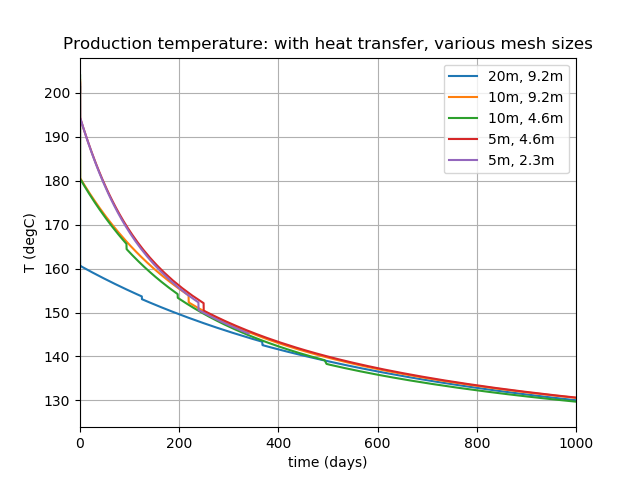
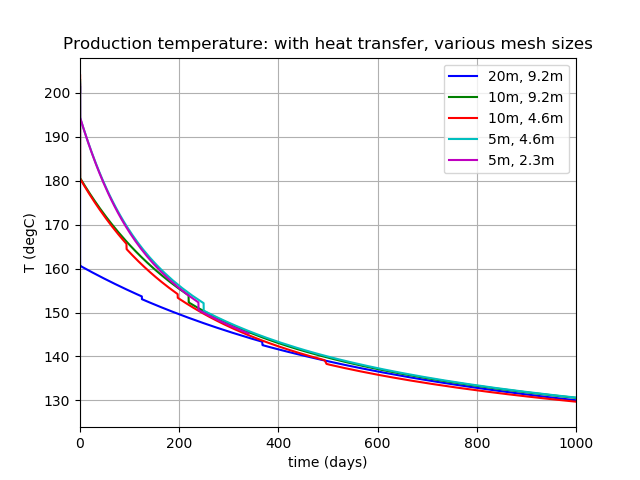
PorousFlow_3D just has extensions stuff left to doco

diff --git a/3dFracture/matrix_app.py b/3dFracture/matrix_app.py
@@ -3,18 +3,38 @@ import sys
 import numpy as np
 import matplotlib.pyplot as plt
 
+production_starts = {} # index into data at which production starts (P_out >= 10.6)
+for i in ['00', '10', '11', '21', '22']:
+    data = np.genfromtxt(r'matrix_app_out_fracture_app0_' + i + '.csv', delimiter=',', names=True)
+    for ind in range(1, len(data)):
+        if data['P_out'][ind] >= 10.6:
+            production_starts[i] = ind
+            break
+
+labels = {'00': '20m, 9.2m', '10': '10m, 9.2m', '11': '10m, 4.6m', '21': '5m, 4.6m', '22': '5m, 2.3m'}
+colours = {'00': 'b', '10': 'g', '11': 'r', '21': 'c', '22': 'm'}
 
 plt.figure()
-data = np.genfromtxt(r'matrix_app_out_fracture_app0_00.csv', delimiter=',', names=True)
-plt.plot(data['time'][1:] / 3600.0 / 24.0, data['TK_out'][1:] - 273, label='20m, 9.2m')
-data = np.genfromtxt(r'matrix_app_out_fracture_app0_10.csv', delimiter=',', names=True)
-plt.plot(data['time'][1:] / 3600.0 / 24.0, data['TK_out'][1:] - 273, label='10m, 9.2m')
-data = np.genfromtxt(r'matrix_app_out_fracture_app0_11.csv', delimiter=',', names=True)
-plt.plot(data['time'][1:] / 3600.0 / 24.0, data['TK_out'][1:] - 273, label='10m, 4.6m')
-data = np.genfromtxt(r'matrix_app_out_fracture_app0_21.csv', delimiter=',', names=True)
-plt.plot(data['time'][1:] / 3600.0 / 24.0, data['TK_out'][1:] - 273, label='5m, 4.6m')
-data = np.genfromtxt(r'matrix_app_out_fracture_app0_22.csv', delimiter=',', names=True)
-plt.plot(data['time'][1:] / 3600.0 / 24.0, data['TK_out'][1:] - 273, label='5m, 2.3m')
+for i in ['00', '10', '11', '21', '22']:
+    data = np.genfromtxt(r'matrix_app_out_fracture_app0_' + i + '.csv', delimiter=',', names=True)
+    plt.plot(data['time'][1:production_starts[i]+1] / 3600.0, data['TK_out'][1:production_starts[i]+1] - 273, colours[i] + ":")
+    plt.plot(data['time'][production_starts[i]] / 3600.0, data['TK_out'][production_starts[i]] - 273, colours[i] + "o")
+    plt.plot(data['time'][production_starts[i]:] / 3600.0, data['TK_out'][production_starts[i]:] - 273, colours[i], label=labels[i])
+plt.grid()
+plt.legend()
+plt.title("Production temperature: with heat transfer, various mesh sizes")
+plt.xlim([0, 4])
+plt.ylim([160, 210])
+plt.xlabel("time (hours)")
+plt.ylabel("T (degC)")
+plt.savefig("../doc/content/media/matrix_app_T_short.png")
+plt.show()
+plt.close()
+
+plt.figure()
+for i in ['00', '10', '11', '21', '22']:
+    data = np.genfromtxt(r'matrix_app_out_fracture_app0_' + i + '.csv', delimiter=',', names=True)
+    plt.plot(data['time'][1:] / 3600.0 / 24.0, data['TK_out'][1:] - 273, colours[i], label=labels[i])
 plt.grid()
 plt.legend()
 plt.title("Production temperature: with heat transfer, various mesh sizes")

diff --git a/3dFracture/fracture_only_aperture_changing.py b/3dFracture/fracture_only_aperture_changing.py
@@ -1,6 +1,7 @@
 import os
 import sys
 import numpy as np
+from sklearn.linear_model import LinearRegression
 import matplotlib.pyplot as plt
 
 labels = {'0': '9.2m', '1': '4.6m', '2': '2.3m', '3': '1.15m'}
@@ -14,12 +15,21 @@ for i in ['0', '1', '2', '3']:
             production_starts[i] = ind
             break
 
+at_2hrs = {}
 plt.figure()
 for i in ['0', '1', '2', '3']:
     data = np.genfromtxt(r'fracture_only_aperture_changing_out_' + i + '.csv', delimiter=',', names=True)
     plt.plot(data['time'][1:production_starts[i]+1] / 3600.0, data['TK_out'][1:production_starts[i]+1] - 273, colours[i] + ":")
     plt.plot(data['time'][production_starts[i]] / 3600.0, data['TK_out'][production_starts[i]] - 273, colours[i] + "o")
     plt.plot(data['time'][production_starts[i]:] / 3600.0, data['TK_out'][production_starts[i]:] - 273, colours[i], label=labels[i])
+    for ind in range(len(data)):
+        if data['time'][ind] / 3600.0 > 2.0:
+            t0 = data['time'][ind - 1] / 3600.0
+            t1 = data['time'][ind] / 3600.0
+            T0 = data['TK_out'][ind - 1] - 273
+            T1 = data['TK_out'][ind] - 273
+            at_2hrs[i] = (T0 * (t1 - 2.0) + T1 * (t0 - 2.0)) / (t1 - t0)
+            break
 plt.grid()
 plt.legend()
 plt.title("Production-point temperature: no heat transfer, various mesh sizes")
@@ -27,6 +37,24 @@ plt.xlim([0, 4])
 plt.xlabel("time (hours)")
 plt.ylabel("T (degC)")
 plt.savefig("../doc/content/media/fracture_only_aperture_changing_T_out.png")
+plt.show()
+plt.close()
+
+plt.figure()
+xvals = np.array([9.2, 4.6, 2.3, 1.15]).reshape((-1, 1))
+yvals = np.array([at_2hrs['0'], at_2hrs['1'], at_2hrs['2'], at_2hrs['3']])
+plt.plot(xvals, yvals, 'o', label="Simulation")
+ord = 0.15
+reg = LinearRegression().fit(np.power(xvals, ord), yvals)
+x2 = np.arange(1, np.power(10, ord), 0.01).reshape((-1, 1))
+print(reg.intercept_, reg.coef_)
+plt.plot(np.power(x2, 1.0 / ord), reg.predict(x2), label="Fit: error = size^0.15")
+plt.grid()
+plt.legend()
+plt.xlabel("Element size (m)")
+plt.ylabel("T (degC)")
+plt.title("Production temperature after 2 hours")
+plt.savefig("../doc/content/media/fracture_only_aperture_changing_T_2hrs.png")
 plt.show()
 plt.close()
 

diff --git a/doc/content/multiapp_fracture_flow_PorousFlow_3D.md b/doc/content/multiapp_fracture_flow_PorousFlow_3D.md
@@ -147,7 +147,7 @@ As mentioned above `bottom_p_or_t` is chosen so that the borehole don't "suck" w
 
 The pressure at the injection point rises from its insitu value of around 9.4$\,$MPa to around 12.2$\,$MPa: an increase of 3$\,$MPa, which results in a fracture aperture of around 3$\,$mm according to [eqn.frac.open].  This results in permeability increasing by a factor of around 27000.
 
-Some results are shown in [fracture_only_aperture_changing_T_out] and [fracture_only_aperture_changing_P_out].  Thermal breakthrough occurs at around 1.5 hours after injection starts.  These simulations were run using different mesh sizes (by choosing `Mesh/uniform_refine` appropriately) to illustrate the impact of different meshes in this problem.  Some observations are:
+Some results are shown in [fracture_only_aperture_changing_T_out], [fracture_only_aperture_changing_P_out] and [fracture_only_aperture_changing_T_2hrs].  Production commences around 1.75 hours after injection starts.  These simulations were run using different mesh sizes (by choosing `Mesh/uniform_refine` appropriately) to illustrate the impact of different meshes in this problem.  A straightfoward analysis of simulation error as a function of mesh size is not possible, because each simulation also uses a different time-step size.  Nevertheless, some observations are:
 
 - There is an interesting increase of temperature around the production well in the finer-resolution cases.  The reason for this is that a thin layer of insitu hot fluid is "squashed" against the fracture ends as the cold fluid invades the fracture (the thin layer is not resolved in the low-resolution cases).  This is also clearly seen in [orbit_T].  The hot fluid cannot escape, and it becomes pressurized, leading to an increase in temperature.  Eventually the porepressure increases to 10.6$\,$MPa and the production well activates (indicated by the dot in the figures), withdrawing the hot fluid, and the near-well area cools.  In regions where there is no production well, the high temperature eventually diffuses.  If the production well were in the middle of a fracture, this interesting phenomenon wouldn't be seen.
 - As mesh resolution is increased, the results appear to be converging to an "infinite-resolution" case.  Given the likely uncertainties in parameter values and the physics of aperture dilation, a mesh with element side-lengths of 10$\,$m is likely to be perfectly adequate for this type of problem.
@@ -161,6 +161,11 @@ Some results are shown in [fracture_only_aperture_changing_T_out] and [fracture_
 	style=width:70%;margin:auto;padding-top:2.5%;
 	id=fracture_only_aperture_changing_T_out
 	caption=Temperature at the production point in the case where there is no matrix.  The legend's numbers indicate the size of elements used in the simulation.  Dotted lines: before production commences.  Dot: production commences.  Solid lines: during production.
+
+!media media/fracture_only_aperture_changing_T_2hrs.png
+	style=width:70%;margin:auto;padding-top:2.5%;
+	id=fracture_only_aperture_changing_T_2hrs
+	caption=Temperature at the production point 2 hours after injection commences, in the case where there is no matrix, for meshes with different-sized elements.  A straightforward error analysis is not possible because each simulation takes different time-steps.
 
 Some animations are shown in [orbit_T] and [orbit_aperture].  One month is simulated, but steady state is rapidly approached within the first few hours of simulation.   The cold injectate invades most of the fracture network: hot pockets of fluid only remain at the tops of some fractures, due to buoyancy.
 
@@ -177,16 +182,80 @@ Some animations are shown in [orbit_T] and [orbit_aperture].  One month is simul
 
 ## Including the matrix
 
-TODO
+### Matrix physics and material properties
 
-Before presenting the input files in detail, the simulation's coupling involves the following steps.
+Most of the matrix input file is standard by now.  The physics is governed by [PorousFlowFullySaturated](PorousFlowFullySaturated.md)
 
-1. Each fracture element must be prescribed with a normal direction, using a [PorousFlowElementNormal](PorousFlowElementNormal.md) AuxKernel.
-2. The fracture-normal information must be sent from each fracture element to the nearest matrix element, which is implemented using a [MultiAppNearestNodeTransfer](MultiAppNearestNodeTransfer.md) Transfer.
+!listing 3dFracture/matrix_app.i block=PorousFlowFullySaturated
+
+along with the familiar [VectorPostprocessorPointSource](VectorPostprocessorPointSource.md):
+
+!listing 3dFracture/matrix_app.i block=DiracKernels
+
+It is assumed the rock matrix has small porosity of 0.1 and permeability of $10^{-18}\,$m$^{2}$.  The rock density is 2700$\,$kg.m$^{-3}$ with specific heat capacity of 800$\,$J.kg$^{-1}$.K$^{-1}$ and isotropic thermal conductivity of 5$\,$W.m$^{-1}$.K$^{-1}$.  Hence, the `Materials` block is:
+
+!listing 3dFracture/matrix_app.i block=Materials
+
+### Heat transfer coefficients, matrix mesh sizes and time scales
+
+As mentioned in the [mathematical and physical introduction](multiapp_fracture_flow_equations.md) the use of heat transfer coefficients such as
+
+\begin{equation}
+\label{eqn.suggested.h.L}
+h = \frac{2h_{\mathrm{s}}\lambda_{\mathrm{m}}^{nn}L}{h_{\mathrm{s}}L^{2} + 2\lambda_{\mathrm{m}}^{nn}L} \ .
+\end{equation}
+
+is only justified if the matrix element sizes are small enough to resolve the physics of interest.  The time taken for a pulse of heat to travel through the matrix over half-element distance $L$ is
+
+\begin{equation}
+t \sim \frac{c\rho}{\lambda}L^{2} \ .
+\end{equation}
+
+This equation provides a rough idea of the element size needed to accurately resolve physical phenomena.  [table:time_scales] enumerates the time-scales for the case in hand: if $t$ is smaller than the enumerated time-scale then [eqn.suggested.h.L] is inappropriate, so other choices must be made, or the matrix mesh made finer.
+
+!table id=table:time_scales caption=Indicative time-scales for which [eqn.suggested.h.L] will be appropriate, as a function of mesh size
+| $L$ (m) | matrix mesh size (m) | time scale (days) |
+| --- | --- | --- |
+| 10 | 20 | 500 |
+| 5 | 10 | 125 |
+| 2.5 | 5 | 30 |
+
+The heat-transfer is implemented as a [PorousflowHeatMassTransfer](PorousflowHeatMassTransfer.md) Kernel in the fracture input file:
+
+!listing 3dFracture/fracture_only_aperture_changing.i block=Kernels
+
+with $h$ being calculated by the following AuxKernel that implements [eqn.suggested.h.L]:
+
+!listing 3dFracture/fracture_only_aperture_changing.i block=heat_transfer_coefficient_auxk
+
+
+### Coupling and transfers
+
+The simulation's coupling involves the following steps (see also the [page on transfers](multiapp_fracture_flow_transfers.md)).
+
+1. Each fracture element must be prescribed with a normal direction, using a [PorousFlowElementNormal](PorousFlowElementNormal.md) AuxKernel, such as
+
+!listing 3dFracture/fracture_only_aperture_changing.i block=normal_dirn_x_auxk
+
+2. Each matrix element must retrieve the fracture-normal information from the nearest fracture element, which is implemented using a [MultiAppNearestNodeTransfer](MultiAppNearestNodeTransfer.md) Transfer.
+
+!listing 3dFracture/matrix_app.i block=normal_x_from_fracture
+
 3. Each matrix element must be prescribed with a normal length, $L$, using a [PorousFlowElementLength](PorousFlowElementLength.md) AuxKernel and the fracture-normal direction sent to it.
+
+!listing 3dFracture/matrix_app.i block=element_normal_length_auxk
+
 4. Each matrix element must be prescribed with a normal thermal conductivity, $\lambda_{\mathrm{m}}^{nn}$, using the fracture-normal direction sent to it.
-5. Each fracture element must retrieve $L$ and $\lambda_{\mathrm{m}}^{nn}$ from its nearest matrix element.
-6. Each fracture element must calculate $h$ using [eqn.suggested.h.L] or [eqn.simple.L].
+
+!listing 3dFracture/matrix_app.i block=normal_thermal_conductivity_auxk
+
+5. Each fracture element must retrieve $L$ and $\lambda_{\mathrm{m}}^{nn}$ from its nearest matrix element using a [MultiAppNearestNodeTransfer](MultiAppNearestNodeTransfer.md), with blocks such as
+
+!listing 3dFracture/matrix_app.i block=element_normal_length_to_fracture
+
+6. Each fracture element must calculate $h$ using [eqn.suggested.h.L].
+
+!listing 3dFracture/fracture_only_aperture_changing.i block=heat_transfer_coefficient_auxk
 
 These steps could be performed during the simulation initialization, however, it is more convenient to perform them at each time-step.  When these steps have been accomplished, each time-step involves the following (which is also used in the sections above).
 
@@ -195,53 +264,6 @@ These steps could be performed during the simulation initialization, however, it
 3. The heat flowing between the fracture and matrix is transferred using a [MultiAppReporterTransfer](MultiAppReporterTransfer.md) Transfer.
 4. The matrix physics is solved.
 
-
-### The fracture input file
-
-The [PorousFlowFullySaturated](PorousFlowFullySaturated.md) physics is used to model this situation.  [Kuzmin-Turek](kt.md) stabilization is used, and porepressure is measured in MPa.
-
-!listing 3dFracture/fracture_app.i block=PorousFlowFullySaturated
-
-The coupling with the matrix is by the [PorousFlowHeatMassTransfer](PorousflowHeatMassTransfer.md) Kernel
-
-!listing 3dFracture/fracture_app.i block=Kernels
-
-The model assumes all fractures have aperture $a = 0.1\,$mm, although prescribing a block-dependent $a$ is obviously easy in MOOSE (it just makes the input file a lot longer).  All fractures are assumed to have porosity 1.0 and permeability $10^{-11}\,$m$^{2}$.  Because there is no "matrix" (rock material) inside the fractures, the matrix specific heat capacity is zero (in the matrix input file the matrix specific heat capacity is non zero) and the thermal conductivity is due to water, $0.6\,$W.m$^{-1}$.K$^{-1}$.  Remembering that all fracture properties much be multiplied by $a$ (see [mathematics and physical interpretation](multiapp_fracture_flow_equations.md)), the `Materials` block reads:
-
-!listing 3dFracture/fracture_app.i block=Materials
-
-This simulation involves considerable changes of water pressure and temperature, so a high-precision equation of state is used:
-
-!listing 3dFracture/fracture_app.i block=Modules
-
-PorousFlow contains many different [sources and sinks](sinks.md) that could be used to implement the injection and production.  In this case, temperature is fixed at the injection node using a [DirichletBC](DirichletBC.md) and a constant rate of fluid is injected using a [PorousFlowPointSourceFromPostprocessor](PorousFlowPointSourceFromPostprocessor.md) Dirac Kernel.  Two [PorousFlowPolyLineSink](PorousFlowPolyLineSink.md) Dirac Kernels extract mass and heat (the latter with `use_enthalpy = true`) from the production node.  These are designed to keep the porepressure around 10$\,$MPa, ramping up the production rate if the porepressure exceeds this, or reducing it if the porepressure is less than 10$\,$MPa.  The relevant blocks are:
-
-!listing 3dFracture/fracture_app.i block=BCs
-
-!listing 3dFracture/fracture_app.i block=DiracKernels
-
-The above is run-of-the-mill PorousFlow material.  The coupling with the matrix is the most important to the current page.  The steps in the coupling were outlined above.  The `AuxKernels` needed are:
-
-!listing 3dFracture/fracture_app.i block=AuxKernels
-
-Notice the expression in the `heat_transfer_coefficient` function.  In the case at hand, if [eqn.simple.L] is used then the matrix very rapidly heats up the water in the fracture, leading to rather boring (though realistic) results.  Hence, various values for $h_{s}$ have been provided.
-
-### The matrix input file
-
-Most of the matrix input file is standard by now.  The physics is governed by [PorousFlowFullySaturated](PorousFlowFullySaturated.md) along with the familiar [VectorPostprocessorPointSource](VectorPostprocessorPointSource.md):
-
-!listing 3dFracture/matrix_app.i block=PorousFlowFullySaturated
-
-!listing 3dFracture/matrix_app.i block=DiracKernels
-
-It is assumed the rock matrix has small porosity of 0.1 and permeability of $10^{-18}\,$m$^{2}$.  The rock density is 2700$\,$kg.m$^{-3}$ with specific heat capacity of 800$\,$J.kg$^{-1}$.K$^{-1}$ and isotropic thermal conductivity of 5$\,$W.m$^{-1}$.K$^{-1}$.  Hence, the `Materials` block is:
-
-!listing 3dFracture/matrix_app.i block=Materials
-
-The matrix needs to compute $\lambda_{\mathrm{m}}^{nn}$ and $L$ to send these to the fracture.  This is accomplished using the following:
-
-!listing 3dFracture/matrix_app.i block=AuxKernels
-
 The `Transfers` described above are:
 
 !listing 3dFracture/matrix_app.i block=Transfers
@@ -249,12 +271,34 @@ The `Transfers` described above are:
 
 ### Results
 
+[matrix_app_T_short] and [matrix_app_T] show the temperature at the production bore.  It is clear that the matrix provides substantial heat-energy to the injectate, when these results are compared with [fracture_only_aperture_changing_T_out].  However, as time proceeds, the cold injectate cools the surrounding matrix, leading to cooler production temperatures.  These figures show how the results depend on the matrix and fracture mesh sizes.  Keep in mind [table:time_scales], which tabulates the time scale at which the results should become accurate (eg, the "20m, 9.2m" case is not expected to be accurate for time-scales less than about 500 days).  Convergence to the infinite-resolution limit is obviously achieved.
+
+!media media/matrix_app_T_short.png
+	style=width:60%;margin:auto;padding-top:2.5%;
+	id=matrix_app_T_short
+	caption=Short-term temperature at the production well.  The first number in the legend is the mesh element size, while the second is the fracture element size.
+
 !media media/matrix_app_T.png
 	style=width:60%;margin:auto;padding-top:2.5%;
 	id=matrix_app_T
-	caption=TODO
+	caption=Long-term temperature at the production well.  The first number in the legend is the mesh element size, while the second is the fracture element size.
+
+[matrix_T] shows the evolution of the cooled matrix material.  By 1000 days, an envelope of 10--20m around the fracture system has cooled by more than 10degC.  Some parts of the fracture are not cooled at all by the injectate, most particularly those at the top of the network.
 
 !media media/matrix_T.mp4
 	style=width:60%;margin:auto;padding-top:2.5%;
 	id=matrix_T
-	caption=TODO
+	caption=Evolution of the cooled matrix material.  Colors on the fracture system show fracture temperature.  The small boxes are matrix elements that have cooled by more than 10degC.  The green color-bar shows the time simulated.
+
+## Extensions and comments
+
+TODO
+
+- porosity and perm as fcn of a
+- mechanics
+- fluid transfer
+- near well inaccuracy different physics
+- different mesh sizes meaning different transfers
+- different apertures on different parts of the dfn
+- modelling real pumping
+

diff --git a/doc/content/multiapp_fracture_flow_equations.md b/doc/content/multiapp_fracture_flow_equations.md
@@ -78,16 +78,17 @@ Just as the fracture may be considered two-dimensional (implemented by including
 	id=skin_two_nodes
 	caption=An object of temperature $T_{s}$ sits a distance $L_{0}$ from a finite-element node of temperature $T_{0}$, and a distance $L_{1}$ from a node of temperature $T_{1}$.
 
-The flow from the fictitious "skin" object to each matrix finite-element nodes is governed by the heat equation [eqn.3D.heat.eqn]:
+The flow from the fictitious "skin" object to each matrix finite-element nodes is governed by the heat equation.  In the linear limit, [eqn.3D.heat.eqn] implies
 
 \begin{equation}
 \begin{aligned}
+\label{eqn.linear.q0q1}
 Q_{0} &= \lambda \frac{T_{s} - T_{0}}{L_{0}} \ , \\
 Q_{1} &= \lambda \frac{T_{s} - T_{1}}{L_{1}} \ .
 \end{aligned}
 \end{equation}
 
-At steady state $Q_{s} = Q_{0} + Q_{1}$, which allows $T_{s}$ to be eliminated and yields the heat-loss from the fracture:
+Assuming the sum of these equals $Q_{s}$, that is $Q_{s} = Q_{0} + Q_{1}$, allows $T_{s}$ to be eliminated and yields the heat-loss from the fracture:
 \begin{equation}
 Q = \frac{h_{\mathrm{s}}\lambda (L_{0} + L_{1})}{h_{\mathrm{s}}L_{0}L_{1} + \lambda(L_{0} + L_{1})} \left( \frac{L_{1}}{L_{0} + L_{1}}(T_{f} - T_{0}) + \frac{L_{0}}{L_{0} + L_{1}}(T_{f} - T_{1}) \right) \ .
 \end{equation}
@@ -96,7 +97,10 @@ Notice that the prefactors $L_{1}/(L_{0}+L_{1})$ are exactly what a linear-lagra
 h = \frac{h_{\mathrm{s}}\lambda (L_{0} + L_{1})}{h_{\mathrm{s}}L_{0}L_{1} + \lambda(L_{0} + L_{1})} \ .
 \end{equation}
 
-This may be generalised to the 2D-3D situation.  While [skin_two_nodes] is only a 1D picture, flow from the fracture to the matrix only occurs in the normal direction, so it also represents the 2D-3D situation.  With an arbitrary-shaped element containing a portion of a fracture, the heat flows to each node, and hence $h$, depend on the shape of the element.  However, following the approach of the Peaceman borehole TODO_LINK, the following rule-of-thumb is suggested for MOOSE simulations:
+!alert note
+Notice a key assumptions made in the presentation above --- the linear approximation of [eqn.linear.q0q1], where it is assumed that the matrix element sizes are small enough to resolve the physics of interest.  This means that phenomena associated with short-time, small-scale physics won't be resolvable in models with large elements, when using the heat-transfer coefficients recommended in this page.  This is because that in various real-life scenarios there may be *no* heat flow between the "0" position and the skin even if $T_{s}\neq T_{0}$ (contradicting [eqn.linear.q0q1]) because, for instance, changes of $T_{s}$ take some time to be felt by the "0" position.  The solution is to use smaller elements to resolve this short-time, small-scale phenomena.
+
+The same analysis may be performed in the 2D-3D situation.  While [skin_two_nodes] is only a 1D picture, flow from the fracture to the matrix only occurs in the normal direction, so it also represents the 2D-3D situation.  With an arbitrary-shaped element containing a portion of a fracture, the heat flows to each node, and hence $h$, depend on the shape of the element.  However, following the approach of the Peaceman borehole TODO_LINK, the following rule-of-thumb is suggested for MOOSE simulations:
 
 \begin{equation}
 \label{eqn.suggested.h}
